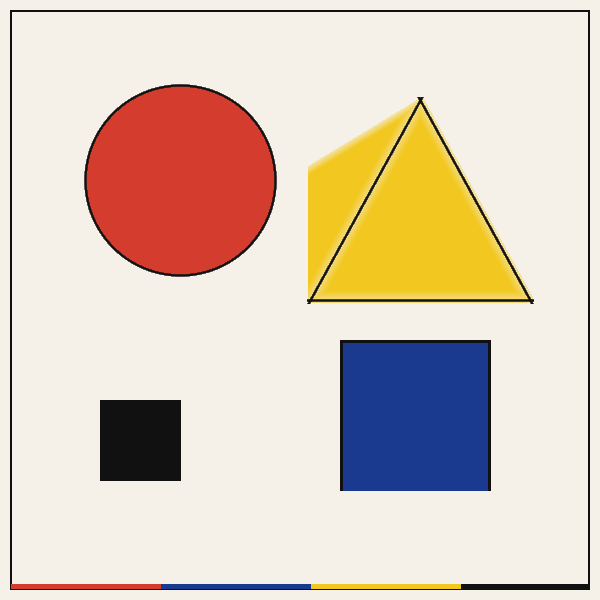
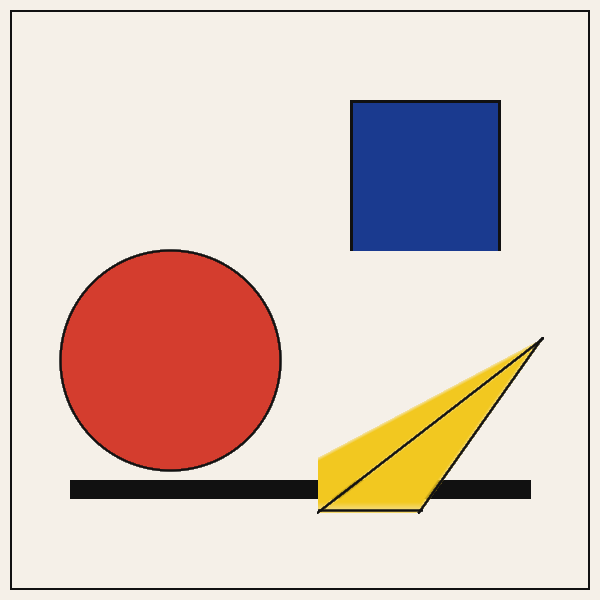
更新OG图片: vibe-hub风格包豪斯构图(红圆·黑条·蓝方·黄三角)

diff --git a/scripts/generate-og-png.js b/scripts/generate-og-png.js
@@ -141,29 +141,23 @@ function drawLineAA(x1,y1,x2,y2,w,rr,gg,bb) {
   }
 }
 
-// === Draw shapes (square 600×600) ===
+// === Draw shapes (square 600×600, vibe-hub Bauhaus composition) ===
 
-// Red circle (upper-left quadrant)
-drawCircleAA(180, 180, 95, 212, 61, 46);
-strokeCircleAA(180, 180, 95, 3, 17, 17, 17);
+// Red circle — left side, lower-mid. Center ~(170, 360), radius ~110
+drawCircleAA(170, 360, 110, 212, 61, 46);
+strokeCircleAA(170, 360, 110, 3, 17, 17, 17);
 
-// Blue square (lower-right quadrant)
-fillRectAA(340, 340, 490, 490, 26, 58, 143);
-strokeRectAA(340, 340, 490, 490, 3, 17, 17, 17);
+// Black horizontal bar below the red circle
+fillRectAA(70, 480, 530, 498, 17, 17, 17);
 
-// Yellow triangle (upper-right area)
-const tx1=420, ty1=100, tx2=530, ty2=300, tx3=310, ty3=300;
+// Blue square — upper-right of the red circle
+fillRectAA(350, 100, 500, 250, 26, 58, 143);
+strokeRectAA(350, 100, 500, 250, 3, 17, 17, 17);
+
+// Yellow triangle — lower-right corner
+const tx1=420, ty1=510, tx2=540, ty2=340, tx3=320, ty3=510;
 fillTriangleAA(tx1, ty1, tx2, ty2, tx3, ty3, 242, 200, 32);
 strokeTriangleAA(tx1, ty1, tx2, ty2, tx3, ty3, 3, 17, 17, 17);
-
-// Black small square (lower-left accent)
-fillRectAA(100, 400, 180, 480, 17, 17, 17);
-
-// Bottom color bars
-fillRectAA(11, H-16, 160, H-12, 212, 61, 46);   // red
-fillRectAA(161, H-16, 310, H-12, 26, 58, 143);   // blue
-fillRectAA(311, H-16, 460, H-12, 242, 200, 32);  // yellow
-fillRectAA(461, H-16, W-12, H-12, 17, 17, 17);   // black
 
 // === Write PNG ===
 function crc32(buf) {
